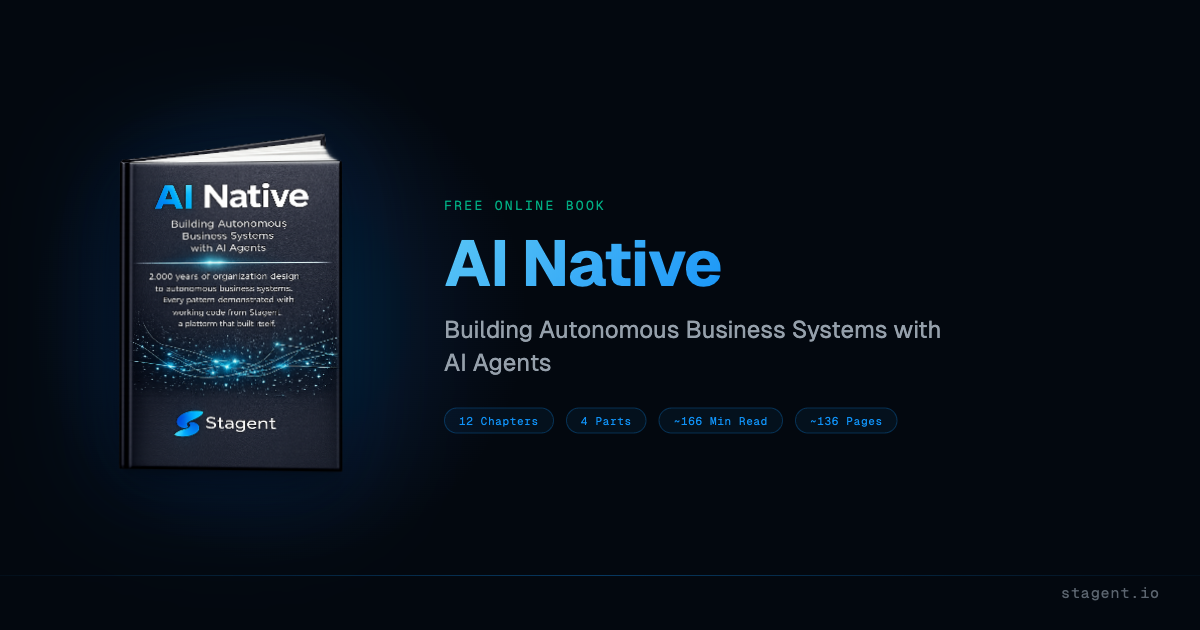
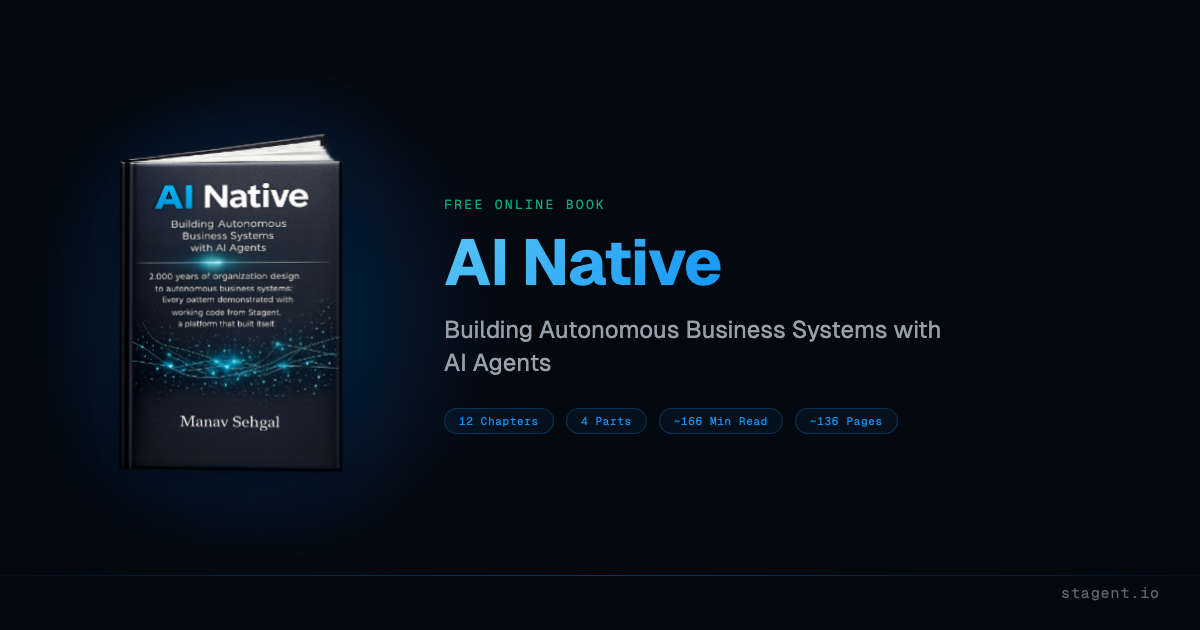
feat: rebrand tagline, swap book cover, refine About and Book pages
- Landing: "AI Native for everyone" replaces old tagline across hero, meta description, SITE description, OG image, CTA footer, and timeline role
- Book: new cover image (ai-native-book-manav-sehgal.png) on homepage Proof, /book/, /book/print, and /book/og
- Book: parts grid → 2-column layout with full chapter titles, subtitle subtext, and monospace reading time
- About: restructure hero card (inline "Free and open source" + standalone weekends tagline); split personal tagline into role and bio lines; list executive credentials (Disruptive Strategy, Design Thinking, Leading Innovative Change); left-align subscribe form; tighten short version and bio copy
- Footer: drop duplicate attribution, keep copyright/license
- Build: chain build:og into top-level build; new scripts/generate-og-images.ts renders /og/ and /book/og/ via Puppeteer

diff --git a/scripts/generate-og-images.ts b/scripts/generate-og-images.ts
@@ -1,0 +1,146 @@
+import http from 'node:http';
+import path from 'node:path';
+import fs from 'node:fs';
+import { fileURLToPath } from 'node:url';
+import type { AddressInfo } from 'node:net';
+import puppeteer from 'puppeteer-core';
+
+const __dirname = path.dirname(fileURLToPath(import.meta.url));
+const ROOT = path.resolve(__dirname, '..');
+const DIST = path.join(ROOT, 'dist');
+const PUBLIC_DIR = path.join(ROOT, 'public');
+
+const TARGETS = [
+  { route: '/og/', outName: 'og-image.png' },
+  { route: '/book/og/', outName: 'book/og-image.png' },
+];
+
+const MIME: Record<string, string> = {
+  '.html': 'text/html; charset=utf-8',
+  '.css': 'text/css; charset=utf-8',
+  '.js': 'application/javascript; charset=utf-8',
+  '.mjs': 'application/javascript; charset=utf-8',
+  '.json': 'application/json; charset=utf-8',
+  '.svg': 'image/svg+xml',
+  '.png': 'image/png',
+  '.jpg': 'image/jpeg',
+  '.jpeg': 'image/jpeg',
+  '.gif': 'image/gif',
+  '.webp': 'image/webp',
+  '.avif': 'image/avif',
+  '.ico': 'image/x-icon',
+  '.woff': 'font/woff',
+  '.woff2': 'font/woff2',
+  '.ttf': 'font/ttf',
+};
+
+function mimeType(filePath: string): string {
+  return MIME[path.extname(filePath).toLowerCase()] ?? 'application/octet-stream';
+}
+
+function findChromeExecutable(): string {
+  const envPath = process.env.CHROME_PATH || process.env.PUPPETEER_EXECUTABLE_PATH;
+  if (envPath && fs.existsSync(envPath)) return envPath;
+
+  const candidates = [
+    '/Applications/Google Chrome.app/Contents/MacOS/Google Chrome',
+    '/Applications/Google Chrome Canary.app/Contents/MacOS/Google Chrome Canary',
+    '/Applications/Chromium.app/Contents/MacOS/Chromium',
+    '/usr/bin/google-chrome-stable',
+    '/usr/bin/google-chrome',
+    '/usr/bin/chromium-browser',
+    '/usr/bin/chromium',
+    '/snap/bin/chromium',
+  ];
+
+  for (const candidate of candidates) {
+    if (fs.existsSync(candidate)) return candidate;
+  }
+
+  throw new Error(
+    'Could not locate Chrome/Chromium. Install Google Chrome or set CHROME_PATH to the executable.',
+  );
+}
+
+function serveDist(): Promise<{ server: http.Server; port: number }> {
+  return new Promise((resolve, reject) => {
+    const server = http.createServer((req, res) => {
+      const urlPath = decodeURIComponent(new URL(req.url ?? '/', 'http://localhost').pathname);
+      let filePath = path.join(DIST, urlPath);
+      const safe = path.resolve(filePath).startsWith(path.resolve(DIST));
+      if (!safe) {
+        res.statusCode = 403;
+        res.end('forbidden');
+        return;
+      }
+      if (fs.existsSync(filePath) && fs.statSync(filePath).isDirectory()) {
+        filePath = path.join(filePath, 'index.html');
+      }
+      if (!fs.existsSync(filePath)) {
+        res.statusCode = 404;
+        res.end('not found');
+        return;
+      }
+      res.setHeader('Content-Type', mimeType(filePath));
+      fs.createReadStream(filePath).pipe(res);
+    });
+
+    server.on('error', reject);
+    server.listen(0, '127.0.0.1', () => {
+      const addr = server.address() as AddressInfo;
+      resolve({ server, port: addr.port });
+    });
+  });
+}
+
+async function main() {
+  if (!fs.existsSync(DIST)) {
+    throw new Error(`Build output missing at ${DIST}. Run 'astro build' first.`);
+  }
+
+  const chromeExecutable = findChromeExecutable();
+  console.log(`[og] Chrome: ${chromeExecutable}`);
+
+  const { server, port } = await serveDist();
+  console.log(`[og] Serving dist on http://127.0.0.1:${port}`);
+
+  const browser = await puppeteer.launch({
+    executablePath: chromeExecutable,
+    headless: true,
+    args: ['--no-sandbox', '--disable-setuid-sandbox'],
+  });
+
+  try {
+    const page = await browser.newPage();
+    await page.setViewport({ width: 1200, height: 630, deviceScaleFactor: 1 });
+
+    for (const { route, outName } of TARGETS) {
+      const url = `http://127.0.0.1:${port}${route}`;
+      console.log(`[og] ${route} -> ${outName}`);
+      await page.goto(url, { waitUntil: 'networkidle0', timeout: 60_000 });
+
+      const publicOut = path.join(PUBLIC_DIR, outName);
+      const distOut = path.join(DIST, outName);
+      fs.mkdirSync(path.dirname(publicOut), { recursive: true });
+      fs.mkdirSync(path.dirname(distOut), { recursive: true });
+
+      await page.screenshot({
+        path: publicOut,
+        type: 'png',
+        clip: { x: 0, y: 0, width: 1200, height: 630 },
+      });
+      fs.copyFileSync(publicOut, distOut);
+
+      const sizeKB = (fs.statSync(publicOut).size / 1024).toFixed(1);
+      console.log(`[og]   wrote ${publicOut} (${sizeKB} KB)`);
+    }
+  } finally {
+    await browser.close();
+    server.close();
+  }
+}
+
+main().catch((err) => {
+  console.error('[og] Generation failed:', err);
+  process.exit(1);
+});

diff --git a/src/data/timeline.ts b/src/data/timeline.ts
@@ -212,7 +212,7 @@ export const timeline: TimelineItem[] = [
   {
     year: '2026',
     project: 'Stagent',
-    role: 'The operating system for the agentic economy',
+    role: 'AI Native for everyone',
     description:
       'Shipped a local-first AI business operating system that orchestrates agents across your entire company — with 6-runtime execution, smart routing, governance, cost controls, chat UI, multi-channel delivery (Slack/Telegram), 37 workflow patterns, 45+ database tables, and a living book documenting the journey. 100% free community edition — no tiers, no telemetry.',
     achievements: [

diff --git a/src/data/seo.ts b/src/data/seo.ts
@@ -2,7 +2,7 @@ export const SITE = {
   name: 'Stagent',
   url: 'https://stagent.io',
   description:
-    'The operating system for the agentic economy. A personal research project by Manav Sehgal exploring what AI-native organizations look like — open source, local-first, and free.',
+    'AI Native for everyone. A personal research by Manav Sehgal into building and working with AI agents — open source, local-first, and free.',
   logo: 'https://stagent.io/stagent-s-128.png',
   ogImage: 'https://stagent.io/og-image.png',
   themeColor: '#0f172a',
